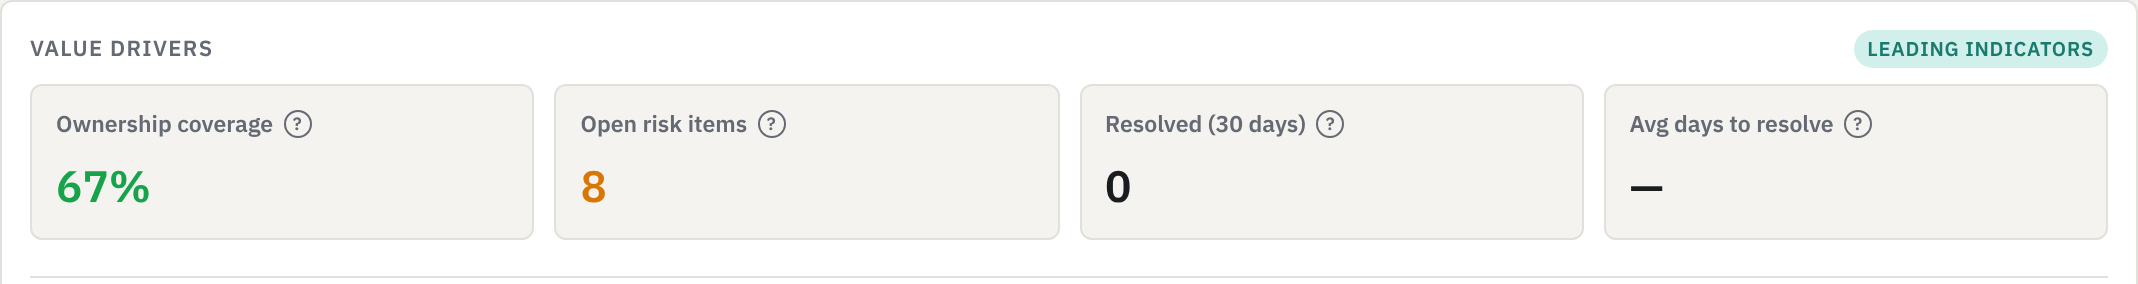
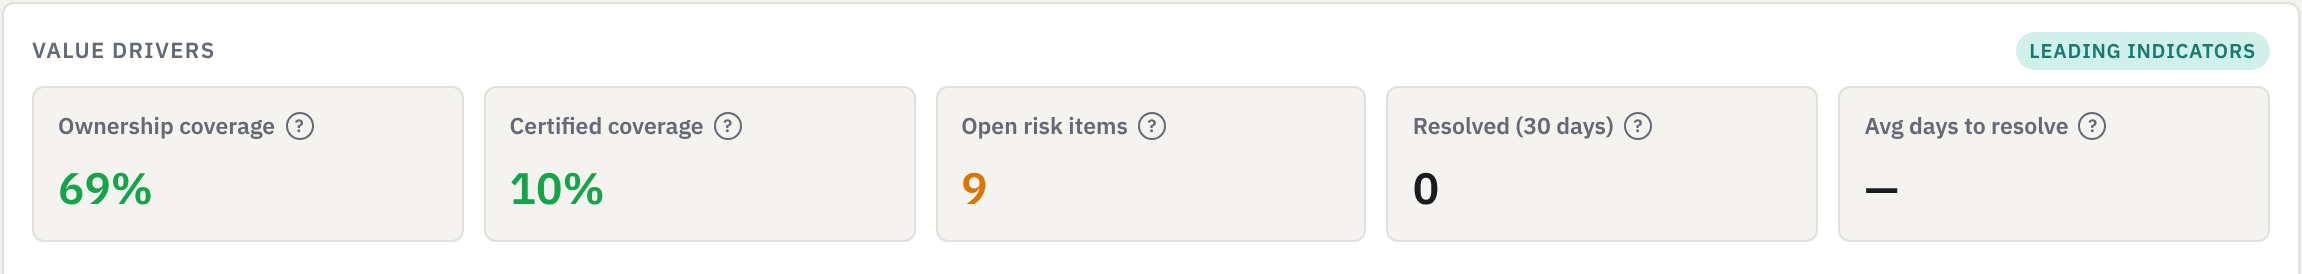
docs(help): refresh Data Assets + scorecard screenshots for certification
Regenerate the two help-guide screenshots the certification work changed,
and update their alt text + capture notes:

- data-assets-list.png — now shows the "Pending certification" attention
  card and the Certified / Pending certification pills in the Tier column
  (NPDES certified, Meter Reads pending, Rate Base manual-Gold-uncertified;
  10 demo assets).
- scorecard-value-drivers.png — now the five-tile value-drivers band with
  the new "Certified coverage" leading indicator.

Claude-Session: https://claude.ai/code/session_01BkiUZ8PqyvCGVYEtKwYmjG

diff --git a/packages/backend/src/docs/HELP.md b/packages/backend/src/docs/HELP.md
@@ -121,7 +121,7 @@ The single home for every activity ↔ target link in the catalog, at **Insights
 
 ### Data Assets
 
-![Data Assets registry: a Data Domains tree on the left, a "Needs attention" card row (Unmapped, No owner, Untrusted, No domain, Sensitivity not set), classification and origin filter pills, then the asset table with columns for System, Sensitivity, Mapping (Mapped / Unmapped), governance Tier (Managed / Untrusted), and Owner. Connector-sourced rows also show a green "Synced N min ago" freshness chip next to the name once a sync source is paired.](images/data-assets-list.png)
+![Data Assets registry: a Data Domains tree on the left, a "Needs attention" card row (Pending certification, Unmapped, No owner, Untrusted, No domain, Sensitivity not set), classification and origin filter pills, then the asset table with columns for System, Sensitivity, Mapping (Mapped / Unmapped), governance Tier (Managed / Untrusted / Trusted), and Owner. Assets in the certification workflow carry a pill below the tier — a green "Certified" (NPDES Discharge Records) or an amber "Pending" (Meter Reads) — distinct from the Gold tier; a manually-Gold-but-uncertified "Rate Base Register" shows the Trusted tier with no certification pill. Connector-sourced rows also show a green "Synced N min ago" freshness chip next to the name once a sync source is paired.](images/data-assets-list.png)
 
 - Register data assets in business terms. Each asset has a Trust Level (Untrusted / Managed / Trusted — DAMA mode calls these Uncertified / Managed / Certified).
 - Sidebar filter by **Data Classification** — the business *kind* of data: Master, Reference, Transactional, Analytical, Metadata (distinct from the SQL data type, and from the Sensitivity axis below).
@@ -404,7 +404,7 @@ Skills drive four cross-page workflows:
 - **All / Governed lens.** When a governance program scope is defined (Governance → Foundation), the header toggle narrows every measure to the entities the program governs — so the scorecard reads against *what you committed to govern*, not the whole org tree. A "Governed scope · v{N} · changed {date}" note shows the basis, and a snapshot saved under the Governed lens stores its governed numbers stamped with the scope version, so two snapshots can be compared apples-to-apples even if the scope changed between them. With no scope defined the lens is a safe no-op.
 - **Governance value drivers (leading indicators).** Under a **Governance value** card, a **Value drivers** band shows the un-fakeable signals that the program is paying off — measured straight from your catalog, with *no assumed dollar figures*: **Ownership coverage** (share of in-scope domains + assets with a named owner), **Open risk items** (a count to drive down — past-expiry exceptions + unowned Tier-1 domains + unclassified assets), **Resolved (30 days)**, and **Avg days to resolve**. They respect the active All / Governed lens.
 
-![The Value drivers band of the Governance value card: a LEADING INDICATORS pill and four tiles — Ownership coverage 67% (10/15 domains & assets have a named owner), Open risk items 8, Resolved (30 days) 0, and Avg days to resolve (no resolved issues yet) — measured from the catalog with no assumed dollar figures.](images/scorecard-value-drivers.png)
+![The Value drivers band of the Governance value card: a LEADING INDICATORS pill and five tiles — Ownership coverage 69%, Certified coverage 10% (assets carrying an attested certification, distinct from the Gold tier), Open risk items 9, Resolved (30 days) 0, and Avg days to resolve (no resolved issues yet) — measured from the catalog with no assumed dollar figures.](images/scorecard-value-drivers.png)
 - **Estimated governance value — your dollar model.** Set a value model on **Governance → Foundation → Value model** (what an owned entity, a resolved issue, and an open-risk item are worth to you, in your currency) and the scorecard monetizes the drivers into an **Estimated annual value**, **Ownership value**, **Resolution value (annualized)**, and **Money at risk** — each tile stamped *your assumptions*. Procela invents no figures: until a model is set, the card shows a prompt to configure one rather than a fabricated number. Annual value = owned entities × value-per-entity + issues resolved in the last 30 days × value-per-issue × 12; value at risk = open-risk items × exposure-per-item, shown separately as exposure to work down.
 - **By value stream.** With a model set, the estimated-value card also breaks the value down **per value stream** — attributed through each stream's process→data mappings, so a leader sees which streams' data is banking value vs. carrying risk. An asset supporting several streams counts in each, and org-level exceptions and unmapped data aren't attributed, so the rows deliberately don't sum to the totals above (the panel says so).
 

diff --git a/packages/backend/src/docs/images/README.md b/packages/backend/src/docs/images/README.md
@@ -12,12 +12,12 @@ If a file referenced by the markdown is missing, the guide renders a striped pla
 |---|---|---|
 | `dashboard-hero.png` | 3. Dashboard | Dashboard page, top crop. Sign in as **Susan Chen** on the Tidewater Utilities fixture so the personal sections populate. Show the greeting header (role · org · date), the **Program health** pulse strip (Open gaps / Classified / Ownership coverage / Program maturity), and the **Needs you** action queue (All / Tasks / Issues tabs + weekly-trend sparkline) beside the portfolio rail (next meeting, Portfolio Health). The dashboard is you-scoped; there is no Overview KPI row. |
 | `process-catalog-tree.png` | 4. Processes → Process Catalog | Process Catalog in its two-pane master-detail layout: the navigation tree (filter pills, per-row status dot + required-fields completeness) on the left with a node selected, and that node's record open in the detail pane on the right. |
-| `data-assets-list.png` | 5. Data → Data Assets | Data Assets list with several rows. **Must include at least one row carrying a green "Live" / "Synced N min ago" chip** next to the name (connector-sourced freshness). Governance-tier badges and health scores should be visible in the columns. |
+| `data-assets-list.png` | 5. Data → Data Assets | Data Assets list with several rows. Governance-tier badges should be visible in the Tier column, with a **certification pill below the tier on at least one row** — a green "Certified" and an amber "Pending" (the Tidewater fixture has both: NPDES Discharge Records = Certified, Meter Reads = Pending). The **"Pending certification" attention card** should be in the Needs-attention row. A green "Live" / "Synced N min ago" connector-freshness chip next to a name is a bonus when a sync source is paired. |
 | `connectors-panel.png` | 6. Systems → On-prem connectors | Settings → On-prem connectors panel with at least one paired connector row. Status chip green (Online), systems column populated, "Add connector" button visible in the header. Empty-state also OK — it just tells a different story. |
 | `connector-pairing.png` | 6. Systems → On-prem connectors | The pairing-code modal after clicking "Add connector" and hitting Generate. The eight-digit code should dominate visually; the `docker run` hint underneath should be readable. |
 | `chat-panel.png` | 10. Cross-cutting → Ask AI assistant | AI assistant chat panel opened on the right. A grounded question ("Where are our data gaps?" is a good one) and an answer that includes at least one clickable entity citation and a green pill-shaped **Open** navigation chip at the end. |
 | `council-scorecard.png` | 8. → Council | The merged **Council** page (`/council`). Show the slim briefing bar (council roster · next meeting) across the top, a **Verdict** card beside the **Needs a decision** panel, then the "Scorecard" division table (Domains · Tier-1 coverage · Classification · Open issues · Exceptions · Status) — with the neutral **No data** status on divisions with nothing to assess yet. Page-header actions (Print, All entities / Governed only, Saved snapshots ▾, Save snapshot) should be visible. Tidewater Utilities fixture. |
-| `scorecard-value-drivers.png` | 8. → Council | The **Value drivers** band of the Governance value card (ROI Phase 1) on the Council page — the four leading-indicator tiles (Ownership coverage, Open risk items, Resolved 30 days, Avg days to resolve) with the LEADING INDICATORS pill. Element-clip of the band, not the whole page. Tidewater Utilities fixture. |
+| `scorecard-value-drivers.png` | 8. → Council | The **Value drivers** band of the Governance value card (ROI Phase 1) on the Council page — the five leading-indicator tiles (Ownership coverage, **Certified coverage**, Open risk items, Resolved 30 days, Avg days to resolve) with the LEADING INDICATORS pill. Element-clip of the band, not the whole page. Tidewater Utilities fixture. |
 | `scorecard-value.png` | 8. → Council | The **Estimated value** band of the Governance value card (ROI Phases 2–3) on the Council page — the four monetized tiles stamped YOUR ASSUMPTIONS (Estimated annual value, Ownership value, Resolution value, Money at risk) above the By value stream attribution table. Requires a value model set on Governance → Foundation → Value model. Element-clip of the band. Tidewater Utilities fixture. |
 | `settings-data-tab.png` | Settings → Data | Settings in its left **nav-rail** layout (General / Sign-in & Security / Integrations / Data / Backup & Restore), with **Data** selected. The Data section lists its panels as index rows: **Data classification regimes** (CUI / ITAR / Export-Controlled), **Compliance frameworks**, **Load demo data**, **Reset everything**. Note: Council Scorecard targets moved to Governance → Foundation → Targets, and Backup & Restore is now its own rail section. |
 
